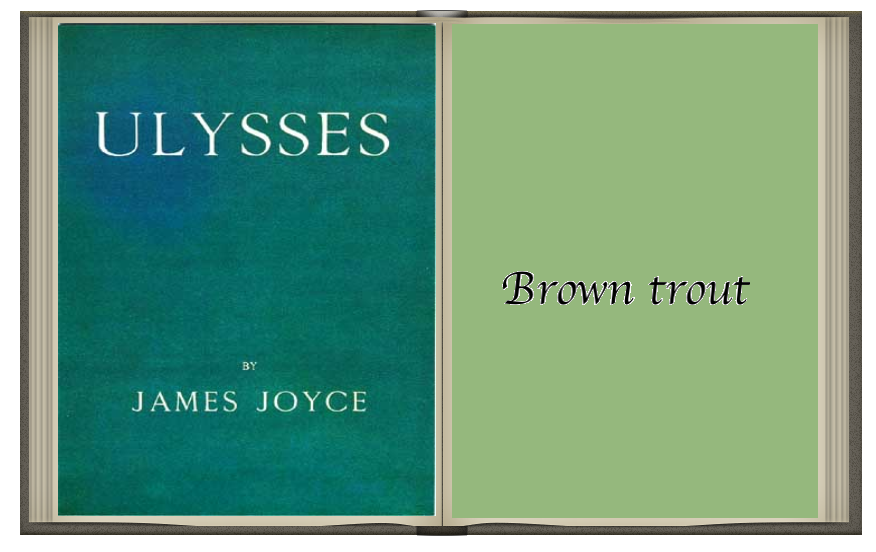
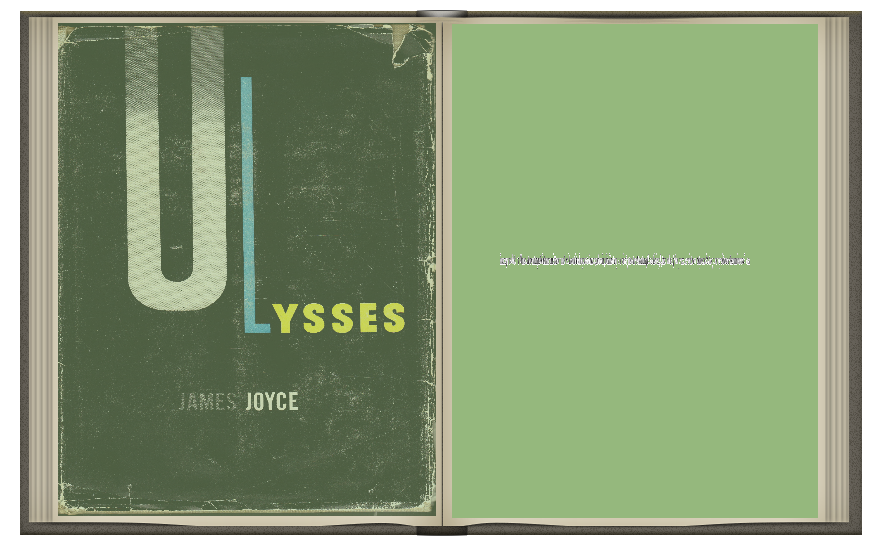
Committing darrens code for the new new reader and book object creator

diff --git a/src/BasicBookReader/BookObjectPopulater.java b/src/BasicBookReader/BookObjectPopulater.java
@@ -1,0 +1,50 @@
+package BasicBookReader;
+
+import java.io.BufferedReader;
+import java.io.File;
+import java.io.FileInputStream;
+import java.io.InputStreamReader;
+
+public class BookObjectPopulater {
+
+	private String filePath = "resources" + File.separator +"books" + File.separator + "Book_";
+	private String fileExtension = ".txt";
+	private int lastBookNumber = 38;
+
+	private void readBook(int bookNumber){
+		boolean allowedRead = false;
+		FileInputStream fis;
+		BufferedReader br;
+		String line = "";
+		try{
+			fis = new FileInputStream(filePath + bookNumber + fileExtension);
+			br = new BufferedReader(new InputStreamReader(fis,"UTF-8"));
+			while((line=br.readLine())!=null){
+				if(allowedRead){
+					if(line.contains("***")){
+						break;
+					}
+					else{
+						line = line.replaceAll("[a-zA-Z]", " ");
+						String[] splitLine = line.split(" ");
+						for(String word : splitLine){
+							
+						}
+					}
+				}
+				else{
+					if(line.contains("***")){
+						allowedRead = true;
+					}
+				}
+			}
+		} catch(Exception e){
+			e.printStackTrace();
+		}
+	}
+
+	public static void main(String args[]){
+		BookObjectPopulater populater = new BookObjectPopulater(); //lpt = ling pipe test
+
+	}
+}

diff --git a/src/BasicBookReader/BookObject.java b/src/BasicBookReader/BookObject.java
@@ -1,0 +1,37 @@
+package BasicBookReader;
+
+import java.util.HashMap;
+
+public class BookObject {
+	private HashMap<Integer, String[]> book; //Integer = page number, String[] = words
+	private String title;
+	private String author;
+	private int[] tweetedPages;
+	
+	public BookObject(HashMap<Integer, String[]> book, String title, String author, int[] tweetedPages) {
+		this.book = book;
+		this.title = title;
+		this.author = author;
+		this.tweetedPages = tweetedPages;
+	}
+	
+	public int[] getTweetedPages() {
+		return tweetedPages;
+	}
+
+	public void setTweetedPages(int[] tweetedPages) {
+		this.tweetedPages = tweetedPages;
+	}
+
+	public HashMap<Integer, String[]> getBook() {
+		return book;
+	}
+
+	public String getTitle() {
+		return title;
+	}
+
+	public String getAuthor() {
+		return author;
+	}
+}

diff --git a/src/tweetImage/textImage.java b/src/tweetImage/textImage.java
@@ -21,7 +21,7 @@ public class textImage {
         String text = st;
 
         Graphics2D g2d = img.createGraphics();
-        Font font = new Font("Apple Chancery", Font.PLAIN, 48);
+        Font font = new Font("Apple Chancery", Font.PLAIN, 12);
         g2d.setFont(font);
         FontMetrics fm = g2d.getFontMetrics();
         int width = fm.stringWidth(text);

diff --git a/src/WordAnalysis/TermFrequencyInverseDocumentFrequency.java b/src/WordAnalysis/TermFrequencyInverseDocumentFrequency.java
@@ -97,7 +97,7 @@ public class TermFrequencyInverseDocumentFrequency {
 		//			}
 		//		}
 		for(int currentBook = 1; currentBook <= tfIDF.lastBookNumber; currentBook++){
-			System.out.println(tfIDF.tfIdf("leopold", currentBook));
+			System.out.println(tfIDF.tfIdf("twit", currentBook));
 		}
 	}
 }

diff --git a/src/tweetImage/image.java b/src/tweetImage/image.java
@@ -88,6 +88,7 @@ public class image {
 	}
 	
 	public static void main(String[] args){
-		image im = new image("The Merchant of venice", "ALOC", "#95b87d", "Brown trout", true);
+		
+		image im = new image("Ulysses", "ALOC", "#95b87d", "Brown trout", true);
 	}
 }
